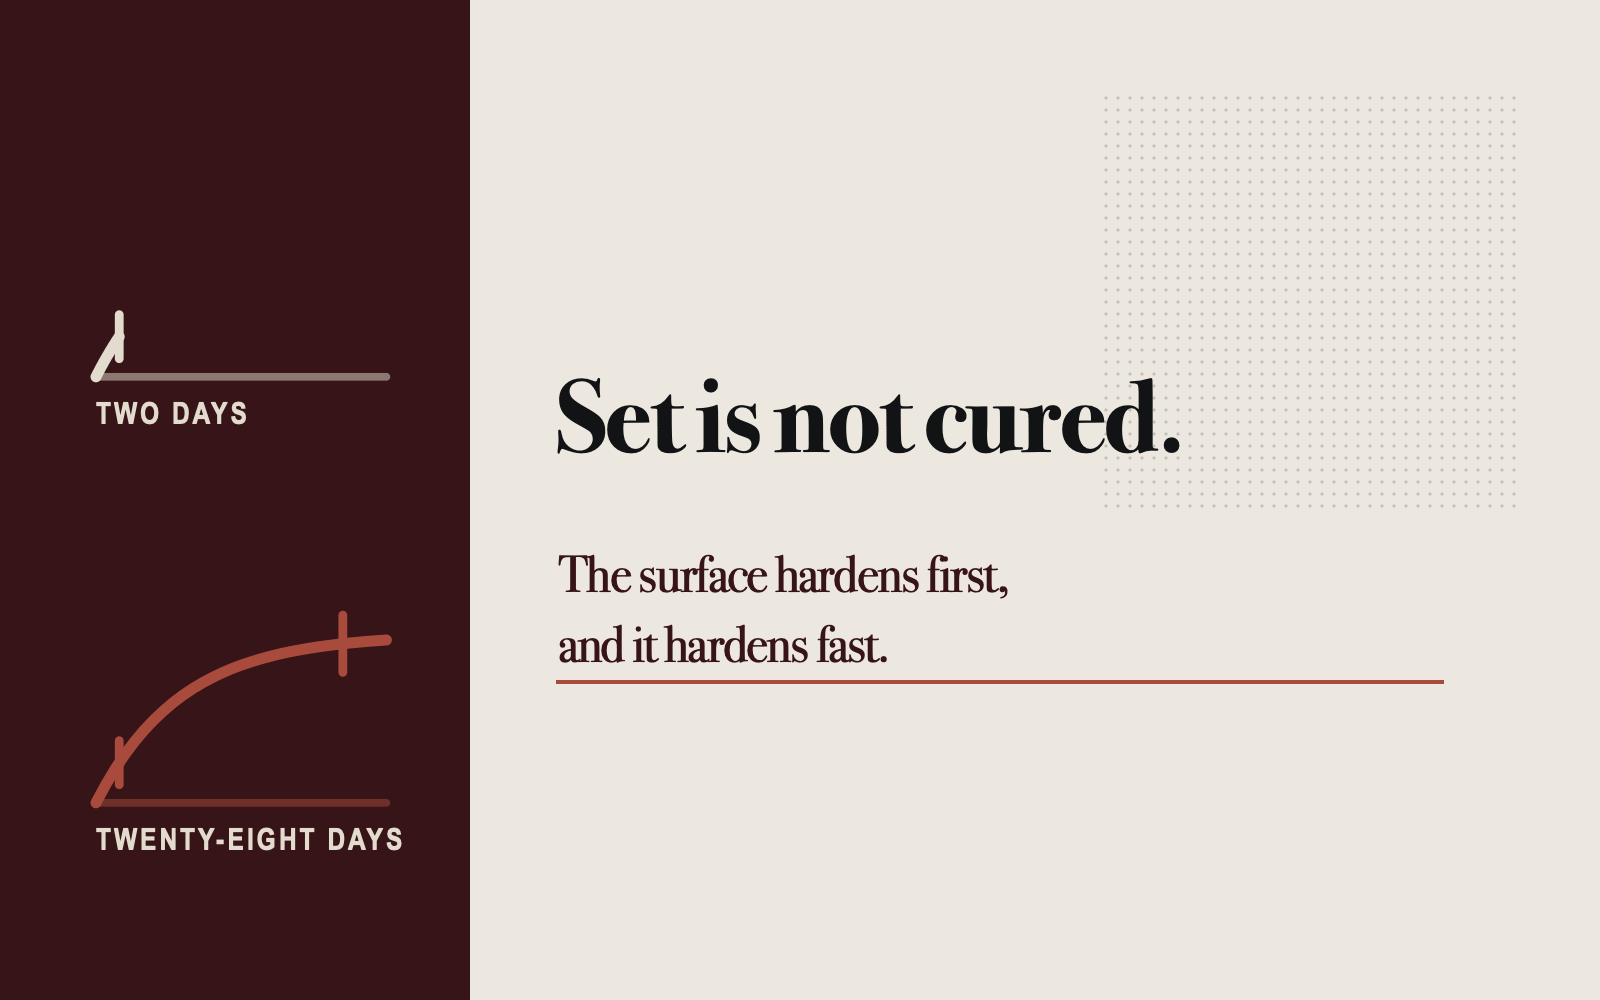
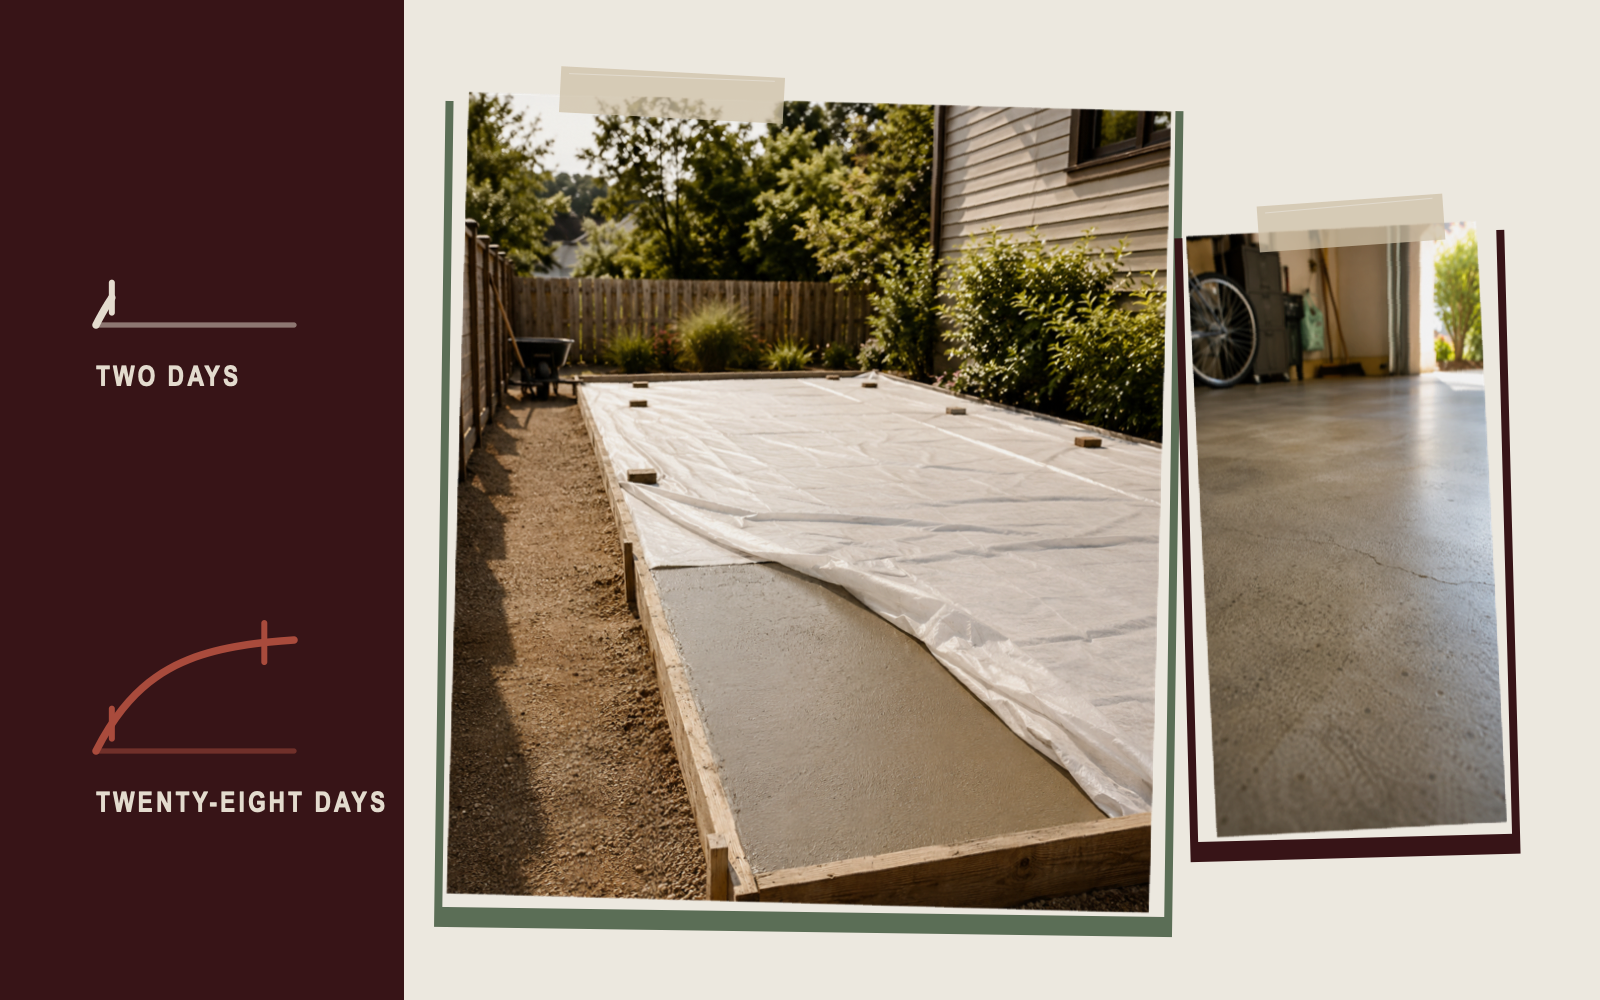
content: complete Field Note 13 photography; rebuild the unit image-led
The founder cleared Chrome's per-origin automatic-download block and the two
outstanding photographs came down. All three passed the full-resolution
believability gate before entering a composition.

The spray in hose-wetting-fresh-pour was the real risk, since frozen filaments
are the exact failure its avoid list names; it holds up. Its drift from the
brief -- an established driveway rather than a fresh pour -- is recorded and
accepted, because the essay's point is that the thing already looks done.

Corrected a wrong assumption before it shaped the art direction: the plan had
been to split the three images between the carousel and the feature image, on
the reading that those are two published assets. All eleven existing notes
share photography across exactly that pair, and the exclusivity checker scans
only the Instagram families, deliberately -- the 2026-08-16 ruling governs two
separately published feed posts. Field Note 13 is built like the rest.

Deviated from the note's own recorded direction and said so: slide 6 takes the
crack photograph rather than slide 7, because it matches slide 6's copy and a
crack on the close would imply damage is the outcome. Slide 7 stays type-led.

Slide 6 was rebuilt twice -- the first version left the crack unreadable at
thumbnail, which is the only reason that photograph exists.

diff --git a/content/field-notes/you-can-walk-on-it-tomorrow.md b/content/field-notes/you-can-walk-on-it-tomorrow.md
@@ -10,7 +10,7 @@ status: founder-approved
 approved: 2026-08-19; founder approved and authorized for publication in one pass
 stance: assignment — the reader has a move, and the closing hundred words turn to him
 personal_claims: none included; no first person appears, and none may be added except from founder-supplied facts
-artwork_status: type-led carousel and feature image complete and approved; one of three photographs banked, two generated and pending download — see production notes
+artwork_status: complete; all three photographs banked 2026-08-19 and the carousel and feature image rebuilt image-led
 ---
 
 # Ghost essay source
@@ -127,20 +127,21 @@ Nobody prints your twenty-eight days. There’s no chart. But set is not cured, 
 
 # Instagram alt text source
 
-- Slide 1: Title You Can Walk on It Tomorrow set large in condensed type on a warm paper ground, with a small drawn strength curve rising steeply and then flattening, marked at an early point.
+- Slide 1: Title You Can Walk on It Tomorrow in condensed type above a photograph of a freshly poured concrete slab kept covered under a light sheet in a residential side yard, one corner turned back to show the grey surface, with a small drawn strength curve marked at an early point.
 - Slide 2: Serif page reading Concrete sets in two days and cures for twenty-eight, with the drawn curve marked at both the early set point and the distant cure point.
-- Slide 3: Type-led page on a deep oxblood field reading Six weeks out, he says he’s fine — he isn’t performing, the surface really is hard.
-- Slide 4: Sparse italic page reading He’s running a surface test on a question about depth, with a single hairline rule beneath it.
-- Slide 5: Serif page about curing rather than drying, with the drawn curve flattening early where the water leaves.
-- Slide 6: Torn paper block reading Load it early and it rarely fails on the spot, above smaller type about hairline cracks and a lower ceiling.
+- Slide 3: Type-led page on a deep oxblood field reading Six weeks out, he says he's fine — he isn't performing, the surface really is hard.
+- Slide 4: Sparse italic page reading He's running a surface test on a question about depth, with a single hairline rule beneath it.
+- Slide 5: Photograph of a garden hose wetting down a concrete driveway in afternoon light, a hand and forearm at the nozzle and a sawhorse with barrier tape at the frame edge, above a paper block reading It doesn't dry, it cures, and the reaction needs the water kept in it.
+- Slide 6: Type on a dark ground reading Load it early and it rarely fails on the spot, above a photograph of a fine hairline crack running across the smooth floor of a tidy, daylit garage.
 - Slide 7: Closing page reading Nobody prints your twenty-eight days, with the drawn curve completed to full height.
 
 # Visual direction
 
-- Family: Marginalia for this build — typographic, spare, abrupt scale shifts, no photograph. The visual system names this as the correct treatment when an article has no photography of its own, and photograph exclusivity forbids borrowing any existing image.
-- Signature: a small hand-drawn strength-gain curve — a baseline, a curve rising steeply then flattening toward an asymptote, with a short tick at the early set point and a second at the distant cure point. The curve fills progressively across the sequence. Used by no other note.
-- Intended photography, once generation is available: a covered slab kept damp under daylight (lead); a hose wetting a fresh pour beside sawhorses and tape; a hairline crack in a finished floor under ordinary daylight. Prompts are recorded in the production notes.
-- On generation, rebuild slides 1, 5, and 7 image-led and keep the rest type-led. Do not retrofit photography into all seven; the sequence is paced for mixed weight.
+- Family: Field Note — image-led, with type-led interior slides so the sequence keeps mixed weight. Built type-led on 2026-08-19 while photography was blocked, then rebuilt image-led the same day once the three photographs landed.
+- Signature: a small hand-drawn strength-gain curve — a baseline, a curve rising steeply then flattening toward an asymptote, with a short tick at the early set point and a second at the distant cure point. The curve fills progressively across the sequence, and the cure tick is only drawn once the line has travelled far enough to reach it. Used by no other note.
+- Photography, all exclusive to this article: `covered-slab-curing.png` (lead — carousel cover and feature image dominant), `hose-wetting-fresh-pour.png` (slide 5), `garage-floor-hairline-crack.png` (slide 6 and the feature image inset).
+- Slides 2, 3, 4 and the close stay type-led. Slide 6 inverts slide 5's skeleton — type above, photograph below — so two consecutive image-led slides do not share a shape.
+- The photography travels across this article's feature image and its carousel, which is how every other note in the bank is built. The 2026-08-16 exclusivity ruling governs two separately published feed posts sharing a picture; `verify-repository.mjs` enforces it across the Instagram families.
 
 # Production notes
 
@@ -148,7 +149,8 @@ Nobody prints your twenty-eight days. There’s no chart. But set is not cured, 
 - Stance is `assignment` under the subject test: the reader has a move — which gauge he reads, and what he does about the load and the water — so this is an ordinary field note. The closing hundred words turn to him, per the corpus measure.
 - Register is the generic present throughout. No event is asserted as having happened, no composite appears, and no first person appears. First person may be added only if the founder supplies and confirms the fact.
 - Adjacency flagged rather than smoothed: Field Note 12 also opens on a jobsite material fact. The differentiator is that Field Note 12 argues about *how much* a man books himself at, from a gap between two ratings, while this argues about *how long*, from a gap between appearance and readiness — and this piece's hinge is a perception problem it spends a section defending the reader against, which Field Note 12 never does. The line "men understand this at work and almost not at all about themselves" belongs to Field Note 12 and deliberately does not appear here.
-- Artwork blocker: the Claude in Chrome extension was unreachable on two attempts at the top of this run, so no photography could be generated in the founder's ChatGPT project. Nothing was skipped quietly and no existing photograph was borrowed — the photograph-exclusivity ruling of 2026-08-16 forbids it, and the visual system names a type-led composition as the sanctioned alternative. The carousel, feature image, and review sheet are complete and type-led.
+- Artwork: the Claude in Chrome extension was unreachable at the top of the scheduled run, so the unit was first built type-led — the sanctioned treatment when an article has no photography of its own — rather than borrowing another article's imagery. The founder opened Chrome the same day and all three photographs were generated in the pinned ChatGPT project, continuing the most recent Editorial Photography Request thread. Chrome then blocked repeat automatic downloads from the origin after the first two; the founder cleared the permission and the remaining images came down. The carousel and feature image were rebuilt image-led on 2026-08-19.
+- Deviation from the first recorded direction, stated rather than quietly changed: that direction said rebuild slides 1, 5 and 7 image-led. Slide 6 took the photograph instead of slide 7, because the hairline-crack image matches slide 6's copy exactly and a crack on the closing slide would imply damage is the outcome — the close is about time and water, not damage. Slide 7 stays type-led as the earned close.
 - Recorded house prompts for the next run with browser access, one per image, sent in the pinned Grown Men Grow project:
   1. "Now a first, separate image in the same editorial photography style, portrait orientation 2:3, single image. A freshly poured concrete slab kept covered and damp under a light sheet, one corner turned back to show the wet grey surface; the image suggests patience, ongoing work, and something being protected rather than finished. A residential side yard on a bright day, forms still in place, the ground swept and the site tidy and in use. No people. Contemporary editorial photography with the polish of a major men's magazine, natural texture, restrained fine film grain, candid rather than posed. Dynamic off-center composition with clean negative space at the upper left. Broad late-morning daylight, warm, optimistic, grounded. Adult subject, pristine natural anatomy, maintained welcoming setting, no logos, no readable text, no watermark. Avoid: derelict lots, cracked or crumbling concrete, mud and construction squalor, abandoned-site atmosphere, dramatic sky, blue-orange grading."
   2. "Now a second, separate image in the same editorial photography style, portrait orientation 2:3, single image. A garden hose wetting down a fresh concrete pour, water darkening the surface in a broad arc, sawhorses and a run of barrier tape at the edge of frame; the image suggests routine care taken on behalf of something that already looks done. A maintained residential driveway on a clear afternoon. Hands and forearms only. Contemporary editorial photography with the polish of a major men's magazine, natural texture, restrained fine film grain, candid rather than posed. Asymmetric composition with clean negative space along the right edge. Bright directional afternoon light, warm, optimistic, grounded. Adult subject, pristine natural anatomy, maintained welcoming setting, no logos, no readable text, no watermark. Avoid: heroic worker posing, grime and rust, macho jobsite cliches, spray frozen into unnatural filaments, waxy skin, excessive bokeh."

diff --git a/assets/source/editorial/README.md b/assets/source/editorial/README.md
@@ -229,26 +229,29 @@ All image-generation conversations now live in a dedicated ChatGPT Project named
 
 Generated through the founder's ChatGPT account in the pinned **Grown Men Grow** project, continuing the most recent *Editorial Photography Request* thread, under the house prompt structure in `docs/technical/content-pipeline.md`. For "You Can Walk on It Tomorrow" (founder-approved 2026-08-19). Exclusive to Field Note 13 under the per-article rule, and each photograph may enter at most one published asset under the 2026-08-16 exclusivity ruling.
 
-**Only one of the three reached disk.** Chrome allowed two downloads from `chatgpt.com` and then blocked further automatic downloads for the origin; the block lives in browser chrome, which neither the extension nor the read-only browser tier of computer-use can click. The two outstanding images are generated and sitting in the thread, reviewed only at on-screen scale. They are not in the repository and no composition uses them. Clearing the block is one click on the blocked-download icon in the address bar, after which the recorded prompts do not need to be re-run — the results already exist.
+**All three are banked as of 2026-08-19.** Getting them to disk took two passes: Chrome allowed two downloads from `chatgpt.com` and then blocked further automatic downloads for the origin, a block that lives in browser chrome and which neither the extension nor the read-only browser tier of computer-use can click. The founder cleared the permission and the remaining images came down. Each passed the full-resolution believability gate before it entered a composition. One earlier download served the first image a second time because the share dialog was stale; it was caught by comparing SHA-256 against the file already banked and deleted. **Hash before naming, not after.**
 
 ### `covered-slab-curing.png`
 
 - Status: banked 2026-08-19; passed the full-resolution believability gate (real form lumber and stakes, plausible sheet drape and creasing, coherent shadow direction, natural gravel texture, no synthetic tell)
-- Consumers: none yet — Field Note 13 ships type-led until its photography is complete, then this becomes the carousel lead
+- Consumers: `scripts/render-field-note-13.mjs` — carousel cover (slide 1) and the feature-image dominant
 - Prompt:
 
   > Now a first, separate image in the same editorial photography style, portrait orientation 2:3, single image. A freshly poured concrete slab kept covered and damp under a light sheet, one corner turned back to show the wet grey surface; the image suggests patience, ongoing work, and something being protected rather than finished. A residential side yard on a bright day, forms still in place, the ground swept and the site tidy and in use. No people. Contemporary editorial photography with the polish of a major men's magazine, natural texture, restrained fine film grain, candid rather than posed. Dynamic off-center composition with clean negative space at the upper left. Broad late-morning daylight, warm, optimistic, grounded. Adult subject, pristine natural anatomy, maintained welcoming setting, no logos, no readable text, no watermark. Avoid: derelict lots, cracked or crumbling concrete, mud and construction squalor, abandoned-site atmosphere, dramatic sky, blue-orange grading.
 
-### `hose-wetting-fresh-pour.png` — generated, not yet downloaded
+### `hose-wetting-fresh-pour.png`
 
-- Status: exists in the thread as "Sunlit Driveway Hose Spray"; blocked by the Chrome download block above. Not reviewed at full resolution. The on-screen frame reads well, but the water spray is exactly the failure mode its own avoid list names, so it gets a full-resolution look before it is banked.
+- Status: banked 2026-08-19; passed the full-resolution believability gate. The spray was the specific risk its own avoid list names, and it holds up — natural droplet dispersion with correct falloff and wetted patches where it lands, not frozen filaments. Hand and forearm anatomy is clean and the nozzle grip is plausible.
+- Review note: the surface reads as an established driveway with control joints rather than a fresh pour, a mild drift from the brief. Accepted, and arguably better for this article — the essay's point is that the thing already looks done.
+- Consumers: `scripts/render-field-note-13.mjs` — carousel slide 5
 - Prompt:
 
   > Now a second, separate image in the same editorial photography style, portrait orientation 2:3, single image. A garden hose wetting down a fresh concrete pour, water darkening the surface in a broad arc, sawhorses and a run of barrier tape at the edge of frame; the image suggests routine care taken on behalf of something that already looks done. A maintained residential driveway on a clear afternoon. Hands and forearms only. Contemporary editorial photography with the polish of a major men's magazine, natural texture, restrained fine film grain, candid rather than posed. Asymmetric composition with clean negative space along the right edge. Bright directional afternoon light, warm, optimistic, grounded. Adult subject, pristine natural anatomy, maintained welcoming setting, no logos, no readable text, no watermark. Avoid: heroic worker posing, grime and rust, macho jobsite cliches, spray frozen into unnatural filaments, waxy skin, excessive bokeh.
 
-### `garage-floor-hairline-crack.png` — generated, not yet downloaded
+### `garage-floor-hairline-crack.png`
 
-- Status: exists in the thread; blocked by the Chrome download block above. Not reviewed at full resolution.
+- Status: banked 2026-08-19; passed the full-resolution believability gate. The crack reads as fine and irregular with natural propagation — not a structural fracture and not ruin porn. Garage is tidy, in use, and daylit.
+- Consumers: `scripts/render-field-note-13.mjs` — carousel slide 6 and the feature-image inset
 - Prompt:
 
   > Now a third, separate image in the same editorial photography style, portrait orientation 2:3, single image. A fine hairline crack running across a finished concrete floor in a well-kept garage, shot close and level so the line reads clearly against the smooth surface; the image suggests a small early fact that matters later, noticed rather than dramatized. A tidy, swept, actively used garage with warm daylight from an open door. No people. Contemporary editorial photography with the polish of a major men's magazine, natural texture, restrained fine film grain, candid rather than posed. Dynamic off-center composition with clean negative space in the lower third. Soft daylight from one side, warm, optimistic, grounded. Adult subject, pristine natural anatomy, maintained welcoming setting, no logos, no readable text, no watermark. Avoid: ruin porn, deep structural fractures, weeds through concrete, dank basements, desaturated grading, symbolic isolation.

diff --git a/docs/technical/handoff-log.md b/docs/technical/handoff-log.md
@@ -1284,3 +1284,25 @@ Two Keychain items were renamed during a machine-wide credential audit: `ghost-a
 **External state changed:** none in this entry. Nothing published, sent, posted, scheduled, or deleted. One download was attempted and refused by Chrome.
 
 **Open:** the Chrome download permission; then the two remaining photographs, their full-resolution review, and the single image-led rebuild of slides 1, 5 and 7.
+
+## 2026-08-19 (fourth entry) — Claude Code: Field Note 13 photography complete; artwork rebuilt image-led
+
+**Client:** Claude Code (desktop; founder present). **Branch:** `content/field-note-13-photography`.
+
+**All three photographs are banked and the unit is now image-led.** The founder cleared Chrome's per-origin automatic-download block and the two outstanding images came down. Each passed the full-resolution believability gate before entering a composition: `covered-slab-curing.png`, `hose-wetting-fresh-pour.png`, `garage-floor-hairline-crack.png`.
+
+**The spray held up.** `hose-wetting-fresh-pour` was the one carrying real risk, because frozen filaments are the exact failure its own avoid list names. At full resolution the spray is natural droplet dispersion with correct falloff and wetted patches where it lands, and the hand and nozzle grip are clean. One drift from the brief is recorded rather than ignored: the surface reads as an established driveway with control joints rather than a fresh pour. Accepted, and arguably better here — the essay's point is that the thing already looks done.
+
+**A wrong assumption was corrected before it shaped the artwork.** The plan had been to split the three photographs between the carousel and the feature image, on the reading that those are two published assets under the 2026-08-16 exclusivity ruling. Checking the bank first showed that **all eleven existing notes share their photography between their Ghost feature image and their Instagram carousel** — and that `validatePhotographExclusivity` scans only the Instagram families, deliberately. The ruling governs two separately published *feed* posts sharing a picture; a Ghost feature image is not a feed post. Field Note 13 is therefore built like every other note, and each photograph still appears in exactly one Instagram family.
+
+**A deviation from the note's own recorded visual direction, stated rather than quietly made.** That direction said rebuild slides 1, 5 and 7 image-led. Slide 6 took the third photograph instead of slide 7: the hairline-crack image matches slide 6's copy exactly, and a crack on the closing slide would imply damage is the outcome, when the close is about time and water. Slide 7 stays type-led as the earned close. The note's visual direction and production notes now describe what was actually built.
+
+**Slide 6 was rebuilt twice.** The first image-led version put the crack photograph on the ink ground below its text and the crack did not read at thumbnail scale, which defeats the only reason that photograph exists. The skeleton was inverted — type above, photograph below, run large — which also stops slides 5 and 6 sharing a shape.
+
+**Files changed:** `scripts/render-field-note-13.mjs`, `assets/source/editorial/hose-wetting-fresh-pour.png` and `garage-floor-hairline-crack.png` (new), `assets/source/editorial/README.md`, `content/field-notes/you-can-walk-on-it-tomorrow.md` (alt text, visual direction, production notes, `artwork_status`), `scripts/verify-repository.mjs`, the seven carousel pairs, the feature image pair, the review sheet, this log.
+
+**Verification:** `verify-repository.mjs`, `verify-svg-xml.sh` (142 SVGs), `verify-ghost-theme.mjs`, `node --test` (34 pass, 0 fail), `git diff --check` — all green. Carousel and feature image reviewed at full resolution, which is how the slide 6 legibility problem was caught.
+
+**External state changed:** two images downloaded from the founder's own ChatGPT account. **One misfire to record: a click intended for the share dialog's Download button landed on its Reddit button and opened a Reddit submit page in a new tab.** Nothing was posted — the tab was a logged-out Reddit login wall and it was closed immediately. ChatGPT does mint a public share link when those buttons are used, and one appears in that Reddit URL; the founder may want to revoke it from ChatGPT's shared-links settings. No other share target was touched.
+
+**Open:** the share link above, if the founder wants it revoked. Ghost publication and any Instagram post remain separately gated and were not performed.
